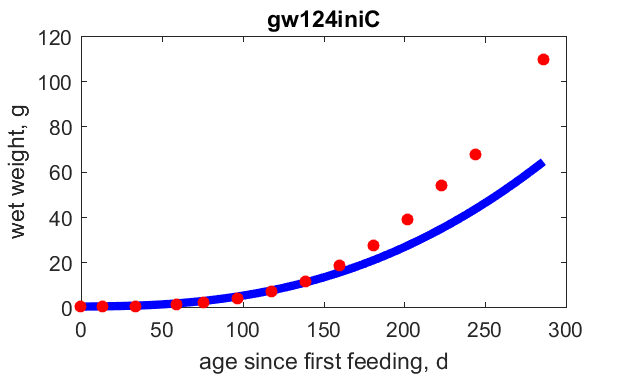
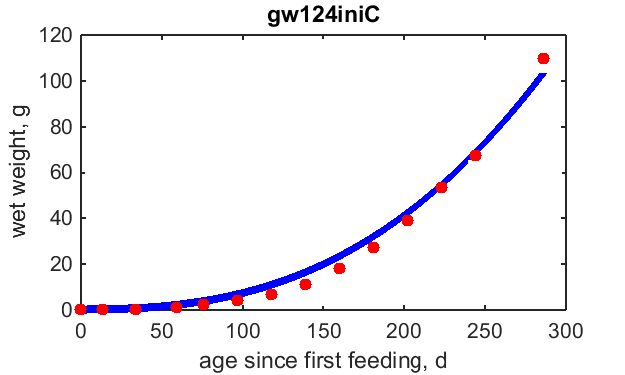
Fitted f with new parameters (and max_step_number=50000)
Successful convergence after ~2000 iterations for BPA03-300 but
predictions are still bad...

diff --git a/run_Oncorhynchus_mykiss_BPA0.m b/run_Oncorhynchus_mykiss_BPA0.m
@@ -2,14 +2,14 @@ clear all; close all; clc
 
 global pets
 
-pets = {'Oncorhynchus_mykiss'};
+% pets = {'Oncorhynchus_mykiss'};
 % pets = {'Oncorhynchus_mykiss_BPA0'};
-%  pets = {'Oncorhynchus_mykiss_BPA03to300'};
+  pets = {'Oncorhynchus_mykiss_BPA03to300'};
 
 
 estim_options('default'); % runs estimation, uses nmregr method and filter
 
-estim_options('max_step_number',500);  % set options for parameter estimation
+estim_options('max_step_number',50000);  % set options for parameter estimation
 estim_options('max_fun_evals',5e3);    % set options for parameter estimation
 
 % 'pars_init_method': 0 - get initial estimates from automatized computation (default)
@@ -23,7 +23,7 @@ estim_options('max_fun_evals',5e3);    % set options for parameter estimation
 
 estim_options('pars_init_method', 2);
 estim_options('results_output', 2);
-estim_options('method', 'no');
+estim_options('method', 'nm');
 % estim_options('filter', 0); % we no longer have all of the model parameters from the 'abj' model, so it is best to put this to zero
 
 estim_pars;          % run estimation
